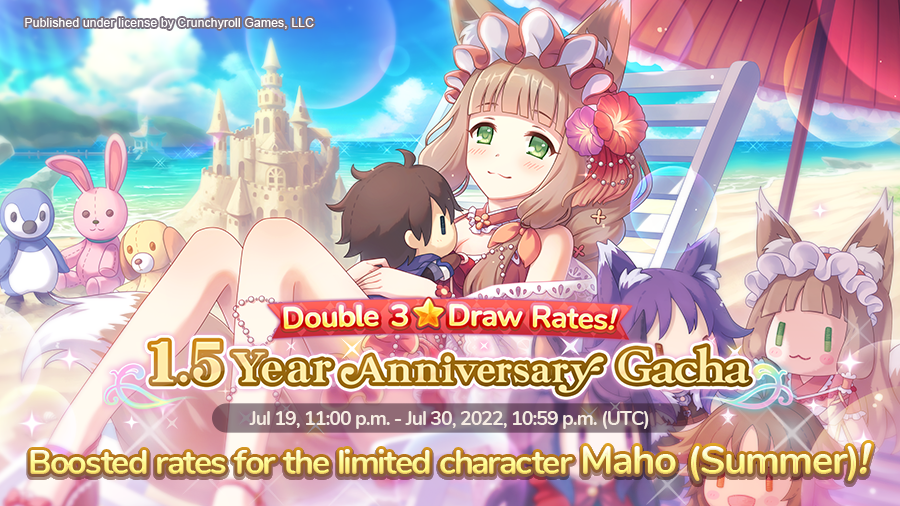
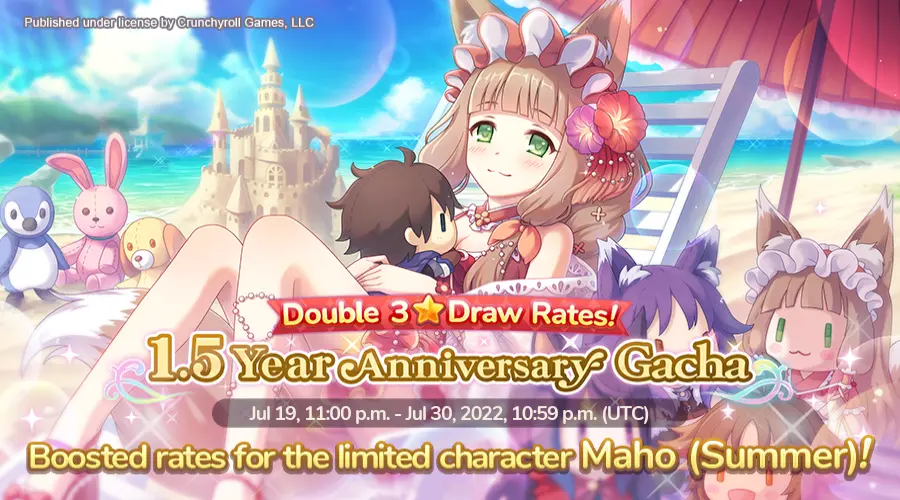
August Update

diff --git a/static/main.js b/static/main.js
@@ -1,1 +1,1 @@
-function gtag(){dataLayer.push(arguments)}function cdclock(e,t){var n=t-(new Date).getTime();n<0&&window.location.reload();var a=Math.floor(n/1e3)%60,c=Math.floor(n/6e4)%60,d=Math.floor(n/36e5)%24,i=Math.floor(n/864e5);a<10&&(a="0"+a),c<10&&(c="0"+c),d<10&&(d="0"+d),e.textContent=i+" days "+d+":"+c+":"+a}function datetime(e){var t=new Date(e),n=t.getDate(),a=t.getMonth()+1,c=t.getFullYear(),d=t.getHours(),i=t.getMinutes(),o=t.getSeconds(),l=-t.getTimezoneOffset()/60;return d<10&&(d="0"+d),i<10&&(i="0"+i),o<10&&(o="0"+o),n<10&&(n="0"+n),a<10&&(a="0"+a),c+"-"+a+"-"+n+" "+d+":"+i+":"+o+" UTC"+(l>0?"+":"")+l}window.dataLayer=window.dataLayer||[],gtag("js",new Date),gtag("config","G-8V5NDDRLVK"),fetch("static/data.json").then(e=>e.json()).then(e=>{var t=(new Date).getTime();for(let n=0;n<e.length;n++){let a=e[n],c=document.createElement("div"),d=new Date(a.end_time).getTime()-6e4*(new Date).getTimezoneOffset(),i=new Date(a.start_time).getTime()-6e4*(new Date).getTimezoneOffset();if(!(d<t)){if("iblock"==a.icon_src)c.className="countdown-card iblock",c.innerHTML=a.event_name;else{let e=document.createElement("div"),n=document.createElement("div"),o=document.createElement("div"),l=document.createElement("div"),r=document.createElement("div");if(i<t)c.className="countdown-card active",n.className="alert",n.innerHTML="--In Progress--",e.appendChild(n);else{c.className="countdown-card",n.className="subtitle",n.innerHTML="Starts in";let t=document.createElement("div");setInterval(cdclock,1e3,t,i),e.appendChild(n),e.appendChild(t)}let m=document.createElement("img"),s=document.createElement("a");if(s.className="icon",s.href=a.link,m.src="image/"+a.icon_src+".webp",m.alt=a.icon_src,r.className="title",r.innerHTML=a.event_name,e.className="countdown",l.className="info",o.className="date",o.appendChild(document.createTextNode("Start Date: "+datetime(i))),i!=d){n=document.createElement("div"),n.className="subtitle",n.innerHTML="Ends in";let t=document.createElement("div");setInterval(cdclock,1e3,t,d),e.appendChild(n),e.appendChild(t),o.appendChild(document.createElement("br")),o.appendChild(document.createTextNode("End Date: "+datetime(d)))}s.appendChild(m),c.appendChild(s),l.appendChild(r),l.appendChild(e),l.appendChild(o),c.appendChild(l)}document.getElementById("root").appendChild(c)}}var n=["got.cr/priconne-update","github.com/trunghieumickey/priconne-en-event-timer","forms.gle/67EqnZhHbjhDhabB7"],a=["www.crunchyroll.com/favicons/favicon-32x32.png","github.githubassets.com/favicons/favicon.png","ssl.gstatic.com/docs/spreadsheets/forms/favicon_qp2.png"],c=["Crunchyroll Notice","Github Repository","Feedback"];div=document.createElement("div"),div.className="countdown-card";for(let e=0;e<n.length;e++){let t=document.createElement("a");t.href="https://"+n[e],t.className="button";let d=document.createElement("img");d.src="https://"+a[e],d.alt=d.className="favicon",t.appendChild(d),t.appendChild(document.createTextNode(c[e])),div.appendChild(t)}document.getElementById("root").appendChild(div)});
+function cdclock(e,t){var n=t-(new Date).getTime();n<0&&window.location.reload();var a=Math.floor(n/1e3)%60,c=Math.floor(n/6e4)%60,d=Math.floor(n/36e5)%24,i=Math.floor(n/864e5);a<10&&(a="0"+a),c<10&&(c="0"+c),d<10&&(d="0"+d),e.textContent=i+" days "+d+":"+c+":"+a}function datetime(e){var t=new Date(e),n=t.getDate(),a=t.getMonth()+1,c=t.getFullYear(),d=t.getHours(),i=t.getMinutes(),o=t.getSeconds(),l=-t.getTimezoneOffset()/60;return d<10&&(d="0"+d),i<10&&(i="0"+i),o<10&&(o="0"+o),n<10&&(n="0"+n),a<10&&(a="0"+a),c+"-"+a+"-"+n+" "+d+":"+i+":"+o+" UTC"+(l>0?"+":"")+l}fetch("static/data.json").then(e=>e.json()).then(e=>{var t=(new Date).getTime();for(let n=0;n<e.length;n++){let a=e[n],c=document.createElement("div"),d=new Date(a.end_time).getTime()-6e4*(new Date).getTimezoneOffset(),i=new Date(a.start_time).getTime()-6e4*(new Date).getTimezoneOffset();if(!(d<t)){if("iblock"==a.icon_src)c.className="countdown-card iblock",c.innerHTML=a.event_name;else{let e=document.createElement("div"),n=document.createElement("div"),o=document.createElement("div"),l=document.createElement("div"),m=document.createElement("div");if(i<t)c.className="countdown-card active",n.className="alert",n.innerHTML="--In Progress--",e.appendChild(n);else{c.className="countdown-card",n.className="subtitle",n.innerHTML="Starts in";let t=document.createElement("div");setInterval(cdclock,1e3,t,i),e.appendChild(n),e.appendChild(t)}let r=document.createElement("img"),s=document.createElement("a");if(s.className="icon",s.href=a.link,r.src="image/"+a.icon_src+".webp",r.alt=a.icon_src,m.className="title",m.innerHTML=a.event_name,e.className="countdown",l.className="info",o.className="date",o.appendChild(document.createTextNode("Start Date: "+datetime(i))),i!=d){n=document.createElement("div"),n.className="subtitle",n.innerHTML="Ends in";let t=document.createElement("div");setInterval(cdclock,1e3,t,d),e.appendChild(n),e.appendChild(t),o.appendChild(document.createElement("br")),o.appendChild(document.createTextNode("End Date: "+datetime(d)))}s.appendChild(r),c.appendChild(s),l.appendChild(m),l.appendChild(e),l.appendChild(o),c.appendChild(l)}document.getElementById("root").appendChild(c)}}var n=["got.cr/priconne-update","github.com/trunghieumickey/priconne-en-event-timer","forms.gle/67EqnZhHbjhDhabB7"],a=["www.crunchyroll.com/favicons/favicon-32x32.png","github.githubassets.com/favicons/favicon.png","ssl.gstatic.com/docs/spreadsheets/forms/favicon_qp2.png"],c=["Crunchyroll Notice","Github Repository","Feedback"];div=document.createElement("div"),div.className="countdown-card";for(let e=0;e<n.length;e++){let t=document.createElement("a");t.href="https://"+n[e],t.className="button";let d=document.createElement("img");d.src="https://"+a[e],d.alt=d.className="favicon",t.appendChild(d),t.appendChild(document.createTextNode(c[e])),div.appendChild(t)}document.getElementById("root").appendChild(div)});

diff --git a/index.html b/index.html
@@ -1,1 +1,1 @@
-<!DOCTYPE html><html lang="en"><head><title>Princess Connect Re:dive EN Event Schedule</title><link rel="icon" href="./favicon.ico"><link rel="manifest" href="./manifest.json"><link href="./static/main.css" rel="stylesheet"><meta charset="utf-8"><meta name="viewport" content="width=device-width,initial-scale=1"><meta name="theme-color" content="#000000"><meta name="description" content="Priconne EN Event Schedule"><script async src="https://www.googletagmanager.com/gtag/js?id=G-8V5NDDRLVK"></script><script async src="./static/main.js"></script></head><body><div id="root" class="card-container"></div></body></html>
+<!DOCTYPE html><html lang="en"><head><title>Princess Connect Re:dive EN Event Schedule</title><link rel="icon" href="./favicon.ico"><link rel="manifest" href="./manifest.json"><link href="./static/main.css" rel="stylesheet"><meta charset="utf-8"><meta name="viewport" content="width=device-width,initial-scale=1"><meta name="theme-color" content="#000000"><meta name="description" content="Priconne EN Event Schedule"><script async src="./static/gtag.js"></script><script async src="https://www.googletagmanager.com/gtag/js?id=G-8V5NDDRLVK"></script><script async src="./static/main.js"></script></head><body><div id="root" class="card-container"></div></body></html>

diff --git a/static/gtag.js b/static/gtag.js
@@ -1,0 +1,1 @@
+function gtag(){dataLayer.push(arguments)}window.dataLayer=window.dataLayer||[],gtag("js",new Date),gtag("config","G-8V5NDDRLVK");

diff --git a/.vscode/webp.py b/.vscode/webp.py
@@ -1,9 +1,9 @@
 from os import listdir, system, getcwd
 from os.path import isfile, join
-cwd = getcwd() + "\\icons"
+cwd = getcwd() + "\\image"
 cwd = [f for f in listdir(cwd) if isfile(join(cwd, f))]
 for i in cwd:
     if (i.split('.')[1]) == "webp":
         continue
-    system("cwebp icons\\" + i + " -lossless -o icons\\" + i.split('.')[0] + ".webp -resize 900 506")
-    system("del icons\\" + i)
+    system("cwebp image\\" + i + " -o image\\" + i.split('.')[0] + ".webp -resize 900 500")
+    system("del image\\" + i)

diff --git a/.vscode/prep.py b/.vscode/prep.py
@@ -1,7 +1,7 @@
 from os import getcwd
 import time
 import json
-cwf = getcwd() + "\\data\\data.json"
+cwf = getcwd() + "\\static\\data.json"
 with open(cwf, "r") as f:
     data = json.load(f)
 
